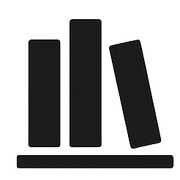
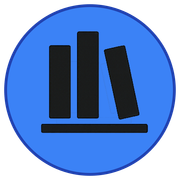
Fix: Uniformisation des icônes PWA avec style livres noirs cohérent
- Copie icon-512x512.png modifié → icon-master.png (source unique)
- Modification script generate-icons.js pour utiliser icon-master.png
- Régénération toutes icônes (72x72 à 512x512) depuis source unique
- Style uniforme: livres noirs sur fond bleu #3B82F6
- Mise à jour JOURNAL.md avec documentation complète

Fichiers régénérés:
- 8 icônes PWA (icon-*.png)
- favicon.ico
- apple-touch-icon.png

diff --git a/scripts/generate-icons.js b/scripts/generate-icons.js
@@ -8,7 +8,7 @@ const __dirname = path.dirname(__filename);
 
 const sizes = [72, 96, 128, 144, 152, 192, 384, 512];
 const iconsDir = path.join(__dirname, '..', 'public', 'icons');
-const logoPath = path.join(__dirname, '..', 'public', 'kodeks-logo.png');
+const logoPath = path.join(__dirname, '..', 'public', 'icons', 'icon-master.png'); // Utiliser l'icône modifiée avec livres noirs
 
 /**
  * Vérifie que le logo source existe
@@ -43,12 +43,11 @@ async function generateIcon(size) {
     await sharp(logoPath)
       .resize(size, size, {
         fit: 'contain',
-        background: { r: 59, g: 130, b: 246, alpha: 1 } // Fond bleu Kodeks (#3B82F6)
+        background: { r: 59, g: 130, b: 246, alpha: 1 } // Fond bleu (déjà dans le SVG mais on garde pour sécurité)
       })
       .png({
         compressionLevel: 9, // Compression maximale
         adaptiveFiltering: true,
-        palette: true // Utiliser palette si possible (plus petit)
       })
       .toFile(outputPath);
 

diff --git a/JOURNAL.md b/JOURNAL.md
@@ -2,6 +2,36 @@
 
 > **RÈGLE IMPORTANTE** : Ce journal DOIT être mis à jour à chaque modification pour permettre à un autre développeur/IA de reprendre le projet facilement en cas d'interruption.
 
+## 2025-10-04 - 🎨 Fix: Uniformisation des icônes PWA (style livres noirs)
+
+### 🔧 Problème
+Les icônes PWA avaient été générées depuis plusieurs sources différentes :
+- `icon-base.svg` (livres blancs sur fond bleu)
+- `kodeks-logo.png` (livres noirs sur transparent)
+- Modifications manuelles sur `icon-128x128.png` et `icon-512x512.png` (livres noirs sur fond bleu)
+
+Résultat : **incohérence visuelle** entre les différentes tailles d'icônes.
+
+### ✅ Solution
+1. Copie de l'icône manuellement modifiée `icon-512x512.png` → `icon-master.png` (source unique)
+2. Modification du script `scripts/generate-icons.js` pour utiliser `icon-master.png` comme source
+3. Régénération de **toutes** les icônes (72x72 à 512x512) depuis cette source unique
+4. Build complet de l'application
+
+### 📁 Fichiers modifiés
+- `scripts/generate-icons.js` : Source path changé vers `icon-master.png`
+- `public/icons/icon-*.png` (8 fichiers) : Toutes les icônes régénérées dans le style uniforme
+- `public/favicon.ico` et `public/apple-touch-icon.png` : Régénérés
+
+### 📋 Résultat final
+✅ **Toutes les icônes PWA ont maintenant le même style** : livres noirs sur fond bleu (#3B82F6)
+
+### 🔄 Prochaines étapes
+- Tester l'affichage des icônes dans le navigateur (mode privé pour éviter cache)
+- Supprimer `icon-master.png` si nécessaire (ou le garder comme référence)
+
+---
+
 ## 2025-10-04 - 🎉 Backlog Post-Audit COMPLET (Phases A-E)
 
 ### ✅ TOUTES LES PHASES TERMINÉES
